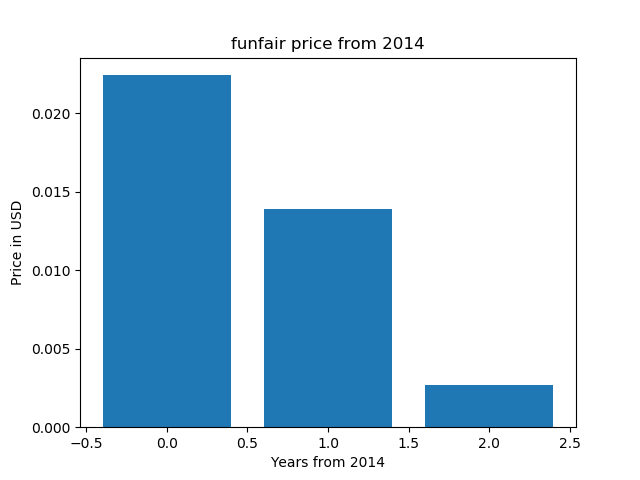
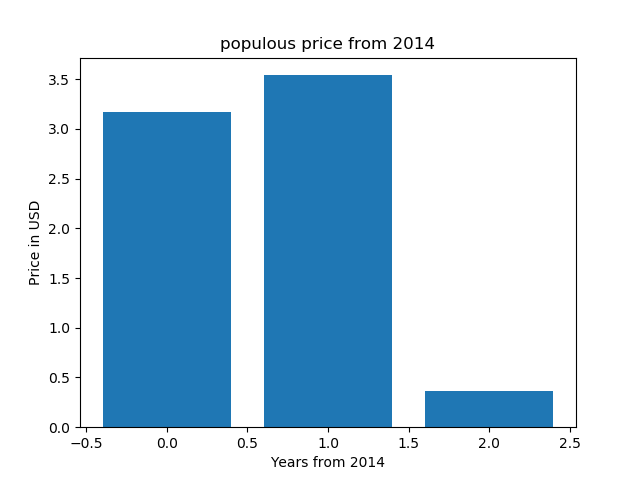
first commit

diff --git a/example.py b/example.py
@@ -10,7 +10,7 @@ from time import gmtime, strftime
 import matplotlib.pyplot as plt
 
 enddate = strftime("%Y%m%d", gmtime())
-r  = requests.get("https://coinmarketcap.com/currencies/funfair/historical-data/?start=20140101&end={0}".format(enddate))
+r  = requests.get("https://coinmarketcap.com/currencies/populous/historical-data/?start=20140101&end={0}".format(enddate))
 data = r.text
 
 soup = BeautifulSoup(data, "html.parser")
@@ -44,7 +44,7 @@ print(x)
 
 x = list(range(0, len(prices)))
 
-plt.title('funfair price from 2014')
+plt.title('populous price from 2014')
 plt.ylabel('Price in USD')
 plt.xlabel('Years from 2014')
 plt.bar(x, prices)

diff --git a/README.md b/README.md
@@ -1,6 +1,6 @@
-# funfair price chart 
+# populous price chart 
 
-funfair price chart (matplotlib, python)
+populous price chart (matplotlib, python)
 
 https://pythonprogramminglanguage.com
 
